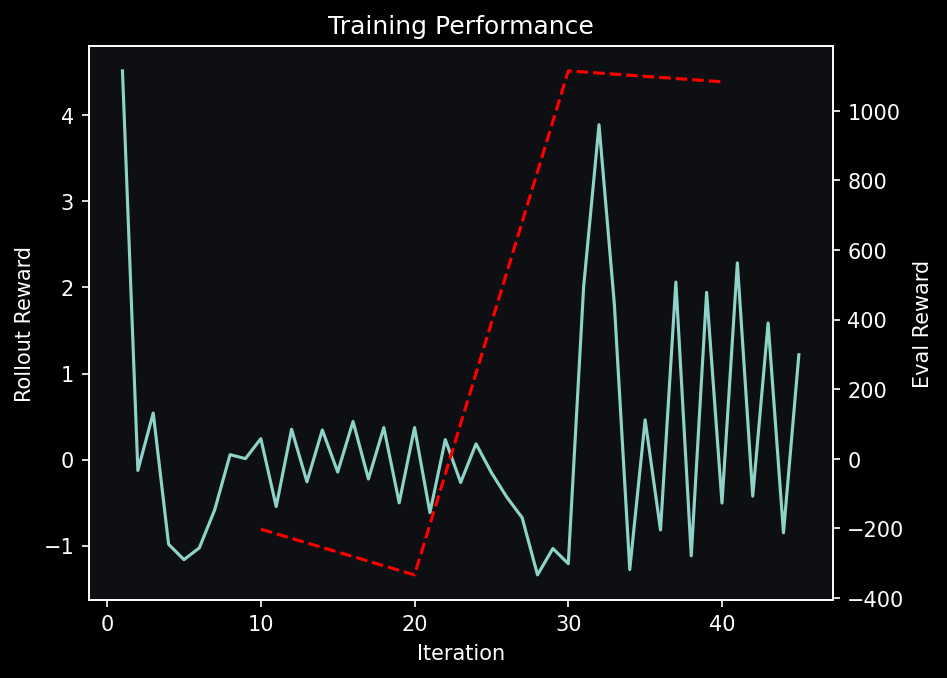
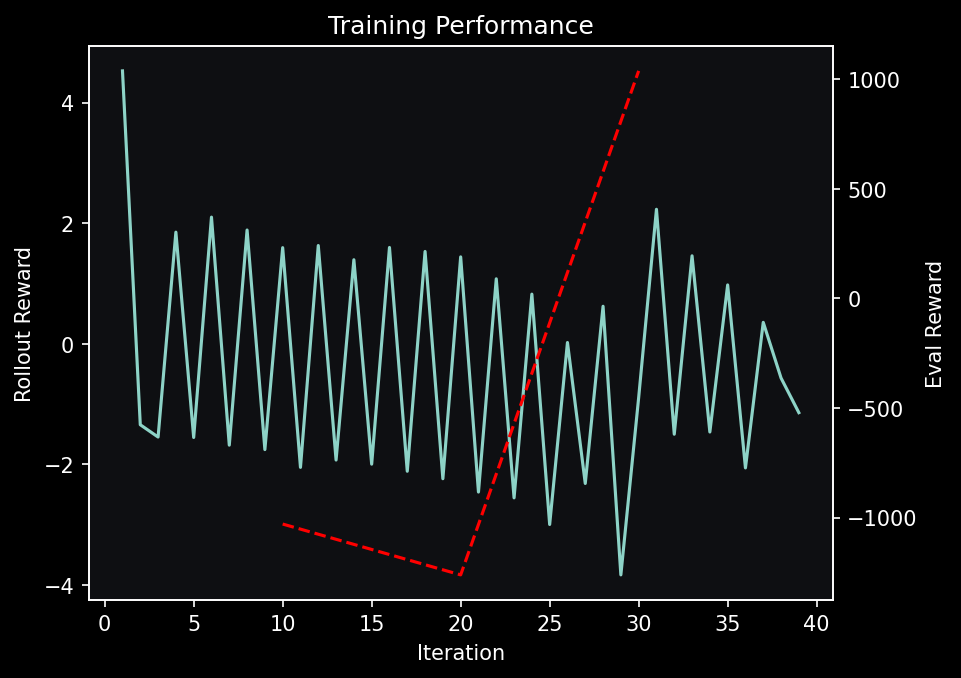
pbt changes

diff --git a/train_pbt.py b/train_pbt.py
@@ -1,30 +1,20 @@
 """
-Population-Based Training (PBT) launcher based on train_cuda.py.
+Simple Population-Based Training (PBT) launcher for GRU training.
 
-This is a lightweight PBT manager that spawns multiple training runs with
-different hyperparameters, evaluates them, and then mutates the weakest
-configs toward the best.
-
-NOTE:
-  This script currently restarts each member from scratch per generation,
-  because train_cuda.py does not yet implement a true resume mechanism.
-  If you later add resume support, this script can promote the best model
-  by copying its checkpoint and continuing training (see TODOs below).
+This script runs a population of independent train_cuda.py jobs from scratch
+each generation. No checkpoint resume or copying is performed.
 """
 
 from __future__ import annotations
 
 import argparse
-import copy
 import json
 import math
 import os
 import random
-import shutil
 import subprocess
-import time
-from dataclasses import dataclass, asdict
-from typing import Dict, List, Tuple
+from dataclasses import dataclass
+from typing import List, Tuple
 
 
 @dataclass
@@ -40,7 +30,7 @@ class PBTConfig:
 
 def _default_config() -> PBTConfig:
     return PBTConfig(
-        lr=1e-5,
+        lr=1e-4,
         clip_coef=0.05,
         std_init=0.2,
         predicted_yaw_slope=10.0,
@@ -51,24 +41,22 @@ def _default_config() -> PBTConfig:
 
 
 def _mutate(cfg: PBTConfig, rng: random.Random) -> PBTConfig:
-    """Mutate hyperparams with small multiplicative noise."""
-    out = copy.deepcopy(cfg)
-    def jitter(x: float, lo: float, hi: float, scale: float = 0.3) -> float:
+    def jitter(x: float, lo: float, hi: float, scale: float) -> float:
         factor = math.exp(rng.uniform(-scale, scale))
         return float(min(max(x * factor, lo), hi))
 
-    out.lr = jitter(out.lr, 1e-6, 1e-3)
-    out.clip_coef = jitter(out.clip_coef, 0.01, 0.3, scale=0.25)
-    out.std_init = jitter(out.std_init, 0.05, 1.0, scale=0.4)
-    out.predicted_yaw_slope = jitter(out.predicted_yaw_slope, 1.0, 200.0, scale=0.4)
-    out.predicted_yaw_tolerance = jitter(out.predicted_yaw_tolerance, 0.2, 30.0, scale=0.4)
-    out.miss_penalty = jitter(out.miss_penalty, 10.0, 500.0, scale=0.4)
-    out.hit_reward = jitter(out.hit_reward, 10.0, 500.0, scale=0.4)
-    return out
+    return PBTConfig(
+        lr=jitter(cfg.lr, 1e-6, 1e-3, 0.4),
+        clip_coef=jitter(cfg.clip_coef, 0.01, 0.3, 0.3),
+        std_init=jitter(cfg.std_init, 0.05, 1.0, 0.4),
+        predicted_yaw_slope=jitter(cfg.predicted_yaw_slope, 1.0, 200.0, 0.5),
+        predicted_yaw_tolerance=jitter(cfg.predicted_yaw_tolerance, 0.2, 30.0, 0.5),
+        miss_penalty=jitter(cfg.miss_penalty, 10.0, 500.0, 0.4),
+        hit_reward=jitter(cfg.hit_reward, 10.0, 500.0, 0.4),
+    )
 
 
 def _parse_last_eval_reward(log_path: str) -> float:
-    """Return last eval reward from training.log (or -inf if not found)."""
     if not os.path.exists(log_path):
         return float("-inf")
     last = None
@@ -79,11 +67,9 @@ def _parse_last_eval_reward(log_path: str) -> float:
     if last is None:
         return float("-inf")
     try:
-        # Example: [Iter 10] eval/reward_mean: 123.4 | ...
-        prefix = "eval/reward_mean:"
-        idx = last.index(prefix) + len(prefix)
-        val = float(last[idx:].split("|")[0].strip())
-        return val
+        key = "eval/reward_mean:"
+        idx = last.index(key) + len(key)
+        return float(last[idx:].split("|")[0].strip())
     except Exception:
         return float("-inf")
 
@@ -94,9 +80,9 @@ def _run_member(
     base_args: List[str],
     save_root: str,
     timesteps: int,
-    resume_path: str | None = None,
+    generation: int,
 ) -> float:
-    save_dir = os.path.join(save_root, f"member_{member_id:02d}")
+    save_dir = os.path.join(save_root, f"gen_{generation:02d}", f"member_{member_id:02d}")
     os.makedirs(save_dir, exist_ok=True)
 
     cmd = [
@@ -111,10 +97,8 @@ def _run_member(
         "--miss-penalty", str(cfg.miss_penalty),
         "--hit-reward", str(cfg.hit_reward),
     ] + base_args
-    if resume_path:
-        cmd += ["--resume", resume_path]
 
-    print(f"\n=== PBT member {member_id} ===")
+    print(f"\n=== PBT member {member_id} (gen {generation}) ===")
     print(" ".join(cmd))
     subprocess.run(cmd, check=False)
 
@@ -124,24 +108,6 @@ def _run_member(
     return score
 
 
-def _find_latest_checkpoint(save_dir: str) -> str | None:
-    """Return path to latest checkpoint_{iter}.pt or None."""
-    if not os.path.isdir(save_dir):
-        return None
-    best_iter = -1
-    best_path = None
-    for name in os.listdir(save_dir):
-        if name.startswith("checkpoint_") and name.endswith(".pt"):
-            try:
-                it = int(name[len("checkpoint_"):-3])
-            except ValueError:
-                continue
-            if it > best_iter:
-                best_iter = it
-                best_path = os.path.join(save_dir, name)
-    return best_path
-
-
 def main():
     parser = argparse.ArgumentParser()
     parser.add_argument("--population", type=int, default=6)
@@ -149,14 +115,15 @@ def main():
     parser.add_argument("--timesteps", type=int, default=500_000)
     parser.add_argument("--save-root", type=str, default="pbt_runs")
     parser.add_argument("--seed", type=int, default=0)
-    # Forwarded train_cuda args (common)
+
+    # Common train_cuda args
     parser.add_argument("--n-envs", type=int, default=128)
     parser.add_argument("--n-steps", type=int, default=128)
-    parser.add_argument("--batch-size", type=int, default=1024)
+    parser.add_argument("--batch-size", type=int, default=128)
     parser.add_argument("--n-epochs", type=int, default=2)
     parser.add_argument("--target-kl", type=float, default=0.02)
-    parser.add_argument("--hidden-dim", type=int, default=128)
-    parser.add_argument("--num-layers", type=int, default=4)
+    parser.add_argument("--hidden-dim", type=int, default=16)
+    parser.add_argument("--num-layers", type=int, default=16)
     args = parser.parse_args()
 
     rng = random.Random(args.seed)
@@ -175,44 +142,25 @@ def main():
         json.dump(vars(args), f, indent=2)
 
     # Initialize population
-    pop: List[PBTConfig] = []
     base = _default_config()
-    for _ in range(args.population):
-        pop.append(_mutate(base, rng))
+    pop = [_mutate(base, rng) for _ in range(args.population)]
 
-    # Generational PBT loop
-    resume_paths: Dict[int, str | None] = {i: None for i in range(args.population)}
-    for gen in range(args.generations):
-        print(f"\n=== Generation {gen + 1}/{args.generations} ===")
+    # Generational loop (from scratch each gen)
+    for gen in range(1, args.generations + 1):
         scores: List[Tuple[int, float]] = []
         for i, cfg in enumerate(pop):
-            score = _run_member(i, cfg, base_args, args.save_root, args.timesteps, resume_paths.get(i))
+            score = _run_member(i, cfg, base_args, args.save_root, args.timesteps, gen)
             scores.append((i, score))
 
-        # Rank
         scores.sort(key=lambda x: x[1], reverse=True)
-        best_idx = scores[0][0]
-        print(f"Best member: {best_idx} reward={scores[0][1]:.2f}")
+        print(f"\nBest member in gen {gen}: {scores[0][0]} reward={scores[0][1]:.2f}")
 
-        # Exploit/explore: replace bottom half with mutated copies of top half
+        # Mutate bottom half toward top half for next generation
         half = max(1, len(pop) // 2)
         top_indices = [idx for idx, _ in scores[:half]]
         bottom_indices = [idx for idx, _ in scores[half:]]
         for b, t in zip(bottom_indices, top_indices * (len(bottom_indices) // max(1, len(top_indices)) + 1)):
             pop[b] = _mutate(pop[t], rng)
-            # Copy best member checkpoint to resume from
-            src_dir = os.path.join(args.save_root, f"member_{t:02d}")
-            dst_dir = os.path.join(args.save_root, f"member_{b:02d}")
-            src_ckpt = _find_latest_checkpoint(src_dir)
-            if src_ckpt:
-                os.makedirs(dst_dir, exist_ok=True)
-                dst_ckpt = os.path.join(dst_dir, "resume.pt")
-                shutil.copy2(src_ckpt, dst_ckpt)
-                resume_paths[b] = dst_ckpt
-            else:
-                resume_paths[b] = None
-
-        time.sleep(0.1)
 
 
 if __name__ == "__main__":

diff --git a/train_cuda.py b/train_cuda.py
@@ -933,6 +933,7 @@ def train(
     # Checkpointing
     save_interval: int = 50,
     save_dir: str = "checkpoints",
+    resume: Optional[str] = None,
     # Misc
     seed: Optional[int] = None,
     use_amp: bool = True,
@@ -1623,6 +1624,7 @@ def main():
         # Checkpointing
         save_interval=args.save_interval,
         save_dir=args.save_dir,
+        resume=args.resume,
         # Misc
         seed=args.seed,
         use_amp=not args.no_amp,
